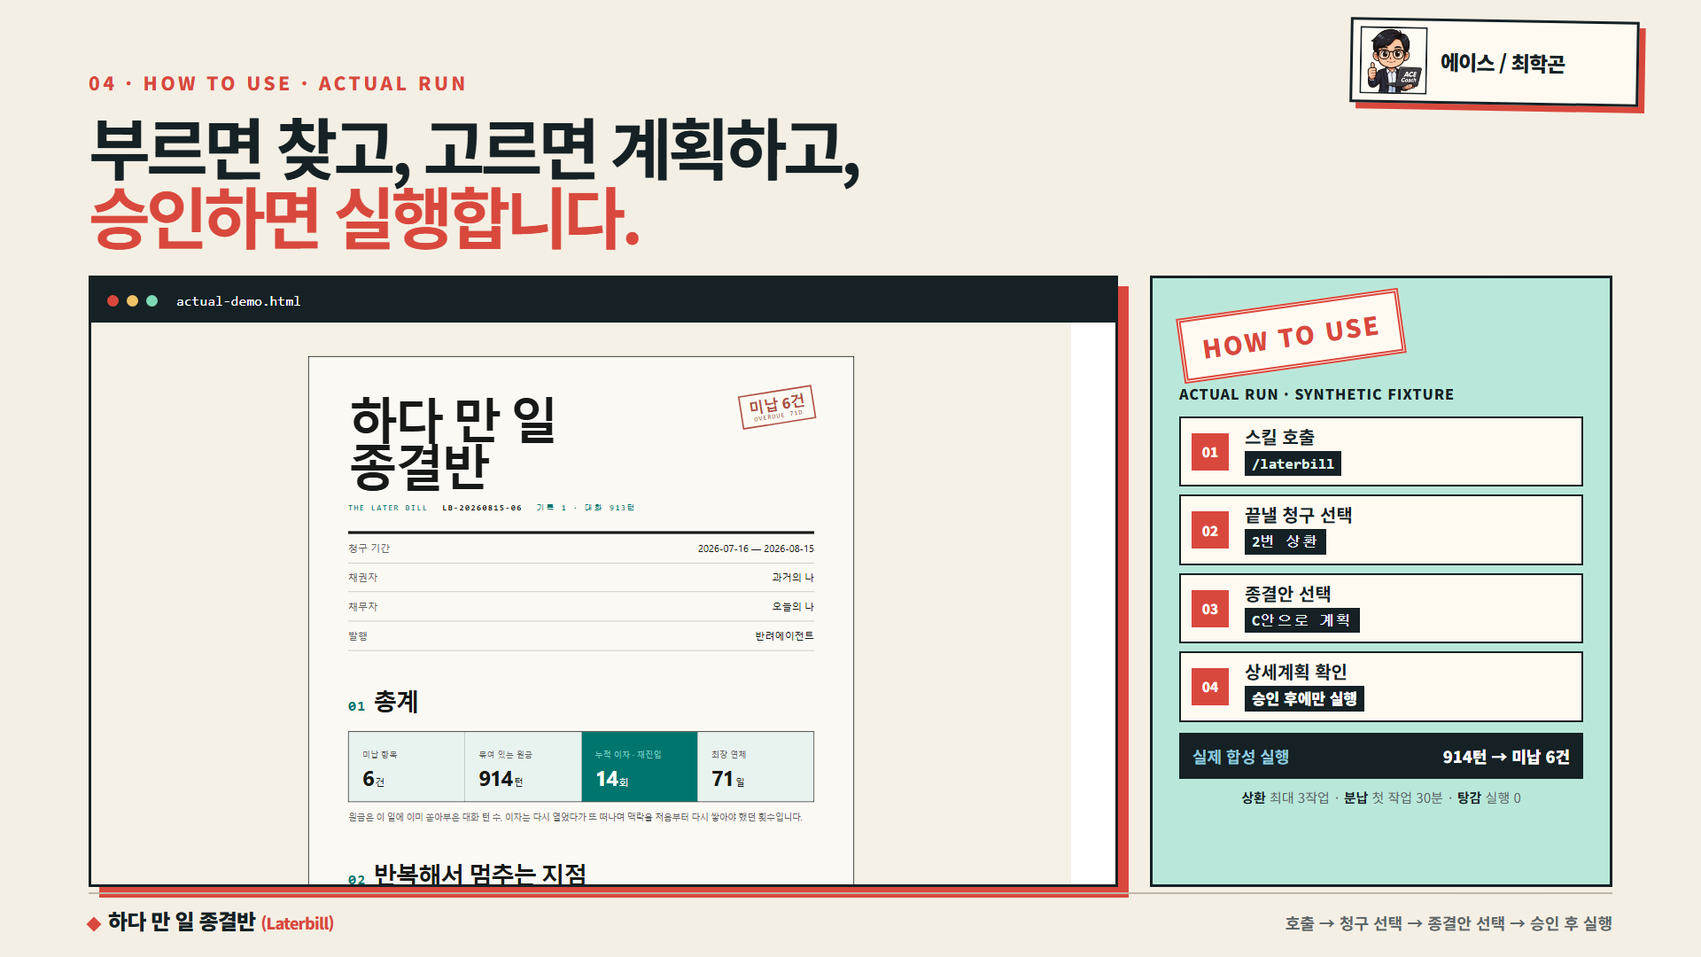
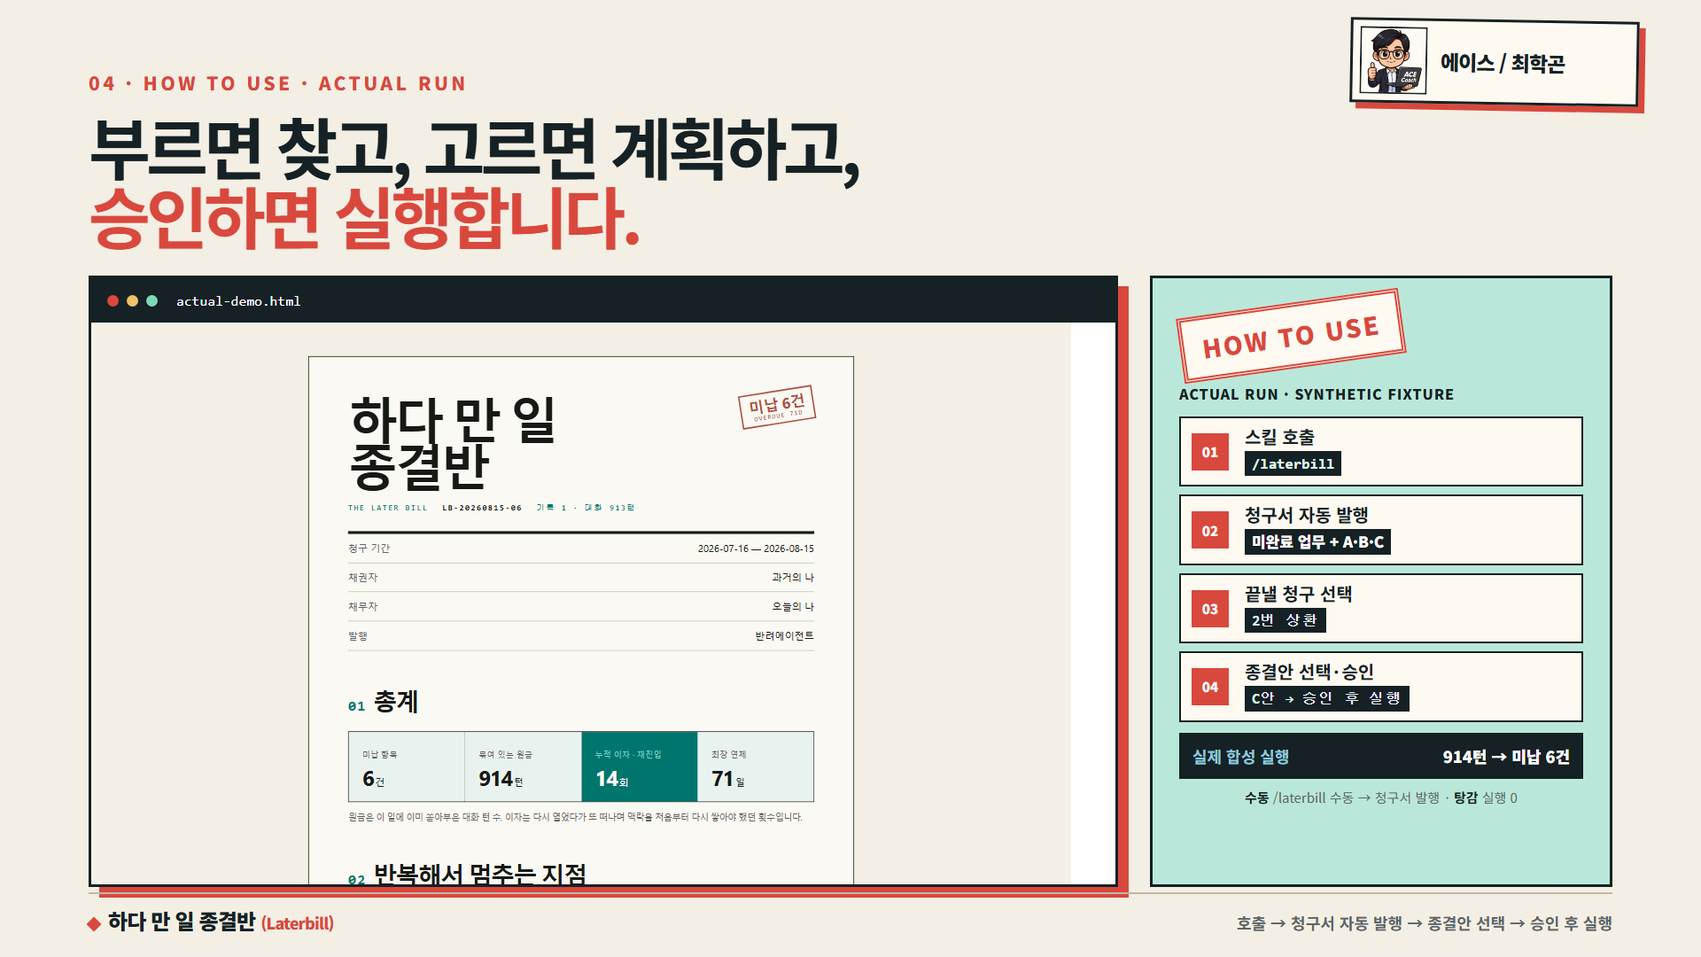
feat: add automatic and manual bill issuance

diff --git a/docs/evidence.html b/docs/evidence.html
@@ -19,7 +19,7 @@
 
   <section class="slide" data-slide="4"><div class="kicker">04 · SAFETY IS A BEHAVIOR</div><h1>민감함과 불확실함을<br>‘주의 문구’가 아니라 동작으로 막는다.</h1><div class="safety"><div class="guard"><div class="tag">NO EVIDENCE</div><b>발행 거부</b><code>verdict: insufficient_data</code><p class="small">대화가 부족하면 없는 빚과 날짜를 만들지 않습니다.</p></div><div class="guard" style="background:var(--mint)"><div class="tag">SENSITIVE · TEST PASS</div><b>승인 전 비공개</b><code>원문 marker not in MD/HTML</code><p class="small">자가검증 #27이 승인 전 원문 부재와 비공개 배너를 함께 검사합니다.</p></div><div class="guard"><div class="tag">PUBLIC SHARE · ACTUAL</div><b>원본 좌표 제거</b><code>source_refs: []</code><p class="small">실제 anonymize() 출력: project=&lt;anonymized&gt;, item_id=lb_public_a.</p></div></div><div class="source proof">READ-ONLY PROBE · README.md SHA-256<br>before == after &nbsp;<span class="pass">readonly_unchanged=true</span><br><span class="small">전체 해시는 공개 proof 로그에 기록</span></div><div class="foot"><span>경고 문구가 아니라 실제 함수 출력과 해시로 검증</span><span>신뢰성 · 개인정보 0건</span></div></section>
 
-  <section class="slide" data-slide="5"><div class="kicker">05 · REPRODUCIBLE PROOF</div><h1>현재 소스와 제출 ZIP을<br>같은 테스트로 두 번 검증했다.</h1><div class="matrix"><div class="terminal"><span class="cmd">$ python laterbill/scripts/selftest.py</span><br><span class="pass">PASS</span> 최신 Codex envelope<br><span class="pass">PASS</span> A·B·C 전략 차별성<br><span class="pass">PASS</span> 민감 원문 기본 숨김<br><span class="pass">PASS</span> 프로젝트 파일 무변경<br><span class="pass">PASS</span> 자가개선 가드레일<br><b class="result">33/33 통과</b><span class="cmd">$ unzip laterbill-skill.zip → temp</span><br><span class="cmd">$ python temp/laterbill/scripts/selftest.py</span><br><b class="result small-result">33/33 통과</b></div><div><div class="stats"><div class="stat"><span>검증 대상</span><b>2</b><span>source + fresh unzip</span></div><div class="stat"><span>테스트 실행</span><b>66</b><span>33 × 2</span></div><div class="stat"><span>압축 파일</span><b>&lt;3MB</b><span>allowlist package</span></div><div class="stat"><span>개인 기록</span><b>0</b><span>합성 fixture만 공개</span></div></div><div class="lane"><b>검증 명령</b> python tools/verify-release.py<br><b>원본 로그</b> docs/assets/proof/release-verification.txt</div><span class="pill">실제 실행 로그</span><span class="pill">SHA-256</span><span class="pill">새 압축 해제본</span><span class="pill">재현 명령 공개</span></div></div><div class="foot"><span>주장을 만드는 코드와 주장을 검증하는 로그를 함께 제출</span><span>완성도 · 신뢰성</span></div></section>
+  <section class="slide" data-slide="5"><div class="kicker">05 · REPRODUCIBLE PROOF</div><h1>현재 소스와 제출 ZIP을<br>같은 테스트로 두 번 검증했다.</h1><div class="matrix"><div class="terminal"><span class="cmd">$ python laterbill/scripts/selftest.py</span><br><span class="pass">PASS</span> 최신 Codex envelope<br><span class="pass">PASS</span> A·B·C 전략 차별성<br><span class="pass">PASS</span> 자동·수동 발행 분리<br><span class="pass">PASS</span> 민감 원문 기본 숨김<br><span class="pass">PASS</span> 프로젝트 파일 무변경<br><b class="result">34/34 통과</b><span class="cmd">$ unzip laterbill-skill.zip → temp</span><br><span class="cmd">$ python temp/laterbill/scripts/selftest.py</span><br><b class="result small-result">34/34 통과</b></div><div><div class="stats"><div class="stat"><span>검증 대상</span><b>2</b><span>source + fresh unzip</span></div><div class="stat"><span>테스트 실행</span><b>68</b><span>34 × 2</span></div><div class="stat"><span>압축 파일</span><b>&lt;3MB</b><span>allowlist package</span></div><div class="stat"><span>개인 기록</span><b>0</b><span>합성 fixture만 공개</span></div></div><div class="lane"><b>검증 명령</b> python tools/verify-release.py<br><b>원본 로그</b> docs/assets/proof/release-verification.txt</div><span class="pill">실제 실행 로그</span><span class="pill">SHA-256</span><span class="pill">새 압축 해제본</span><span class="pill">재현 명령 공개</span></div></div><div class="foot"><span>주장을 만드는 코드와 주장을 검증하는 로그를 함께 제출</span><span>완성도 · 신뢰성</span></div></section>
 
   <script>const n=new URLSearchParams(location.search).get('slide')||'1';document.querySelector(`[data-slide="${n}"]`)?.classList.add('active');</script>
 </body>

diff --git a/docs/presentation/index.html b/docs/presentation/index.html
@@ -79,15 +79,15 @@
           <p class="fixture-label">ACTUAL RUN · SYNTHETIC FIXTURE</p>
           <ol class="usage-steps">
             <li><span>01</span><div><b>스킬 호출</b><code>/laterbill</code></div></li>
-            <li><span>02</span><div><b>끝낼 청구 선택</b><code>2번 상환</code></div></li>
-            <li><span>03</span><div><b>종결안 선택</b><code>C안으로 계획</code></div></li>
-            <li><span>04</span><div><b>상세계획 확인</b><strong>승인 후에만 실행</strong></div></li>
+            <li><span>02</span><div><b>청구서 자동 발행</b><strong>미완료 업무 + A·B·C</strong></div></li>
+            <li><span>03</span><div><b>끝낼 청구 선택</b><code>2번 상환</code></div></li>
+            <li><span>04</span><div><b>종결안 선택·승인</b><code>C안 → 승인 후 실행</code></div></li>
           </ol>
           <div class="usage-result"><b>실제 합성 실행</b><span>914턴 → 미납 6건</span></div>
-          <p class="usage-modes"><b>상환</b> 최대 3작업 · <b>분납</b> 첫 작업 30분 · <b>탕감</b> 실행 0</p>
+          <p class="usage-modes"><b>수동</b> /laterbill 수동 → 청구서 발행 · <b>탕감</b> 실행 0</p>
         </aside>
       </div>
-      <div class="footer"><span class="brand-name">하다 만 일 종결반 <small>(Laterbill)</small></span><span>호출 → 청구 선택 → 종결안 선택 → 승인 후 실행</span></div>
+      <div class="footer"><span class="brand-name">하다 만 일 종결반 <small>(Laterbill)</small></span><span>호출 → 청구서 자동 발행 → 종결안 선택 → 승인 후 실행</span></div>
     </section>
 
     <section class="slide" data-slide="5" aria-label="5장 멈춘 자리로 복귀">
@@ -164,11 +164,11 @@
     <section class="slide finale" data-slide="10" aria-label="10장 검증과 데모">
       <div class="kicker">10 · REPRODUCIBLE PROOF</div>
       <div class="final-grid">
-        <div><h1>대화를 정리하는 AI가 아니라,<br><em>일을 종결하는 AI.</em></h1><p class="demo-cta">말이 아니라 33개 검증을 두 번 통과했습니다.<br><strong>지금, 하다 만 일 하나를 끝내겠습니다.</strong></p></div>
+        <div><h1>대화를 정리하는 AI가 아니라,<br><em>일을 종결하는 AI.</em></h1><p class="demo-cta">말이 아니라 34개 검증을 두 번 통과했습니다.<br><strong>지금, 하다 만 일 하나를 끝내겠습니다.</strong></p></div>
         <div class="score-ticket">
           <span class="micro">SOURCE + FRESH ZIP</span>
-          <strong>33/33 × 2</strong>
-          <dl><div><dt>테스트 실행</dt><dd>66</dd></div><div><dt>개인 기록</dt><dd>0</dd></div><div><dt>네트워크 호출</dt><dd>0</dd></div></dl>
+          <strong>34/34 × 2</strong>
+          <dl><div><dt>테스트 실행</dt><dd>68</dd></div><div><dt>개인 기록</dt><dd>0</dd></div><div><dt>네트워크 호출</dt><dd>0</dd></div></dl>
           <div class="stamp repaid">REPAID</div>
         </div>
       </div>

diff --git a/docs/index.html b/docs/index.html
@@ -28,7 +28,7 @@
     </header>
     <section><div class="eyebrow">Three repayment strategies</div><h2>한 줄 조언 대신, 비교 가능한 세 안</h2><p class="sub">같은 행동을 표현만 바꾸지 않습니다. 시간·완료 조건·장단점이 다른 세 경로 중 하나를 고르면 최대 3개 작업으로 상세화합니다.</p><div class="grid3"><article class="card"><span class="tag">A · QUICK WIN</span><h3>빠른 진전</h3><strong>30분</strong><p>중단 지점을 재현하고 지금 바로 할 행동 하나를 확인합니다.</p></article><article class="card"><span class="tag">B · UNBLOCK</span><h3>장애물 해소</h3><strong>60분</strong><p>막힌 조건·권한·입력 또는 유지할 기존 결과부터 분리합니다.</p></article><article class="card"><span class="tag">C · COMPLETION</span><h3>완결 우선</h3><strong>120분</strong><p>테스트·빌드·완료 조건을 확인하고 이번 업무를 닫습니다.</p></article></div></section>
     <section><div class="eyebrow">Return to source</div><h2>청구서에서 원본으로 돌아가기</h2><div class="flow"><div class="step"><b>01</b>로컬 기록 수집</div><div class="step"><b>02</b>중단 지점 판정</div><div class="step"><b>03</b>프로젝트·세션 복귀</div><div class="step"><b>04</b>A·B·C 비교</div><div class="step"><b>05</b>승인 후 실행·개선</div></div></section>
-    <section><div class="proof"><div class="panel"><div class="eyebrow">VERIFIED · SOURCE + FRESH ZIP</div><p class="metric">33/33 × 2</p><p>현재 Skill과 새로 압축 해제한 ZIP에서 같은 검증을 통과했습니다. <a href="assets/proof/release-verification.txt">실제 실행 로그와 SHA-256 보기</a></p></div><div class="panel light"><div class="eyebrow">SAFETY BY DEFAULT</div><h2>계획과 실행을 분리</h2><p>상환안을 만들 때는 프로젝트를 읽기만 합니다. 사용자 승인 전에는 파일 수정, 명령 실행, 배포를 하지 않으며 전후 파일 해시가 같은지 검증합니다.</p></div></div></section>
+    <section><div class="proof"><div class="panel"><div class="eyebrow">VERIFIED · SOURCE + FRESH ZIP</div><p class="metric">34/34 × 2</p><p>현재 Skill과 새로 압축 해제한 ZIP에서 같은 검증을 통과했습니다. <a href="assets/proof/release-verification.txt">실제 실행 로그와 SHA-256 보기</a></p></div><div class="panel light"><div class="eyebrow">SAFETY BY DEFAULT</div><h2>계획과 실행을 분리</h2><p>상환안을 만들 때는 프로젝트를 읽기만 합니다. 사용자 승인 전에는 파일 수정, 명령 실행, 배포를 하지 않으며 전후 파일 해시가 같은지 검증합니다.</p></div></div></section>
     <footer>표준 라이브러리만 사용 · 로컬 전용 · 제작자 에이스 · <a href="https://github.com/websarang/laterbill">github.com/websarang/laterbill</a></footer>
   </div>
 </body>

diff --git a/laterbill/scripts/run.py b/laterbill/scripts/run.py
@@ -5,6 +5,7 @@
 from __future__ import annotations
 
 import argparse
+import json
 import os
 import subprocess
 import sys
@@ -29,6 +30,37 @@ def invoke(script: str, args: list[str], stdin_text: str | None = None) -> str:
     return result.stdout
 
 
+def manual_preview(ledger_text: str) -> str:
+    """Return a privacy-safe issuance preview without rendering the bill."""
+    ledger = json.loads(ledger_text.lstrip("\ufeff"))
+    scope = ledger.get("scan_scope", {})
+    summary = ledger.get("summary", {})
+    parser_stats = scope.get("parser_stats", {})
+    sensitive = sum(
+        bool(item.get("sensitive_topics")) and not item.get("sensitive_approved", False)
+        for item in ledger.get("line_items", [])
+    )
+    runtime_lines = []
+    for runtime, stats in sorted(parser_stats.items()):
+        runtime_lines.append(
+            f"- {runtime}: 파일 {stats.get('files_read', 0)}/"
+            f"{stats.get('files_discovered', 0)}개 · 대화 {stats.get('turns_parsed', 0):,}턴"
+        )
+    runtimes = "\n".join(runtime_lines) or "- 수집된 런타임 없음"
+    return (
+        "# 하다 만 일 종결반 — 청구서 발행 대기\n\n"
+        "> 읽기 전용 수집은 완료했지만 청구서는 아직 발행하지 않았습니다.\n\n"
+        f"- 발행 가능 항목: **{summary.get('line_items', 0)}건**\n"
+        f"- 조사한 대화: **{scope.get('turns_scanned', 0):,}턴**\n"
+        f"- 민감 승인 대기: **{sensitive}건**\n"
+        f"- 외부 전송: **{scope.get('network_calls', 0)}건**\n\n"
+        "## 런타임별 수집\n\n"
+        f"{runtimes}\n\n"
+        "전체 청구서를 보려면 **`청구서 발행`**이라고 입력하세요. "
+        "취소하려면 **`발행 취소`**라고 입력하세요.\n"
+    )
+
+
 def main() -> int:
     parser = argparse.ArgumentParser(description="Run harvest → repayment → render safely.")
     parser.add_argument("--days", type=int, default=30)
@@ -38,6 +70,10 @@ def main() -> int:
     parser.add_argument("--git", action="store_true")
     parser.add_argument("--demo", action="store_true")
     parser.add_argument("--anonymize", action="store_true")
+    parser.add_argument(
+        "--manual", action="store_true",
+        help="collect records and show a privacy-safe preview; do not issue the bill",
+    )
     parser.add_argument("--format", choices=["md", "html"], default="md")
     parser.add_argument("-o", "--output", default="-")
     args = parser.parse_args()
@@ -54,6 +90,10 @@ def main() -> int:
         harvest_args.append("--anonymize")
 
     ledger = invoke("harvest.py", harvest_args)
+    if args.manual:
+        sys.stdout.write(manual_preview(ledger))
+        return 0
+
     planned = invoke("repayment.py", [], ledger)
     render_args = ["--format", args.format]
     if args.output != "-":

diff --git a/laterbill/scripts/selftest.py b/laterbill/scripts/selftest.py
@@ -436,6 +436,20 @@ check(
     and not approved_items[1]["repayment_options"],
 )
 
+# 34 — 기본 호출은 자동 발행하고 수동 모드는 안전한 요약에서 멈춘다.
+manual_wrapper = run(["scripts/run.py", "--demo", "--manual", "--max-items", "6"])
+check(
+    "자동 발행과 수동 발행 대기가 명확히 분리된다",
+    "청구 내역" in wrapper.stdout
+    and manual_wrapper.returncode == 0
+    and "청구서 발행 대기" in manual_wrapper.stdout
+    and "청구서는 아직 발행하지 않았습니다" in manual_wrapper.stdout
+    and "청구 내역" not in manual_wrapper.stdout
+    and "마지막으로 남긴 말" not in manual_wrapper.stdout
+    and "todo-app" not in manual_wrapper.stdout,
+    manual_wrapper.stderr.strip()[:120],
+)
+
 # ---------------------------------------------------------------------------
 failed = [entry for entry in results if not entry[1]]
 for name, ok, detail in results:

diff --git a/tools/verify-presentation.py b/tools/verify-presentation.py
@@ -35,8 +35,8 @@ assert "class=\"ace-full\"" in html
 assert "Coach</small>" not in html and ">ACE</b>" not in html
 assert all(key in html for key in ("HOW TO USE · ACTUAL RUN", "ACTUAL RUN · ITEM 02", "SYNTHETIC FIXTURE", "actual-demo.html"))
 assert "SYNTHETIC FIXTURE" in html
-assert all(key in html for key in ("/laterbill", "2번 상환", "C안으로 계획", "승인 후에만 실행"))
-assert all(key in html for key in ("상환</b> 최대 3작업", "분납</b> 첫 작업 30분", "탕감</b> 실행 0"))
+assert all(key in html for key in ("/laterbill", "청구서 자동 발행", "2번 상환", "C안 → 승인 후 실행"))
+assert all(key in html for key in ("/laterbill 수동", "청구서 발행", "탕감</b> 실행 0"))
 assert "914턴 → 미납 6건" in html
 
 private_patterns = [r"C:\\Users\\", r"/Users/", r"\.codex[/\\]sessions", r"session_meta"]

diff --git a/laterbill/SKILL.md b/laterbill/SKILL.md
@@ -1,6 +1,6 @@
 ---
 name: laterbill
-description: 「하다 만 일 종결반 (Laterbill)」 — 로컬 AI 대화에 남은 미완료 업무를 추적하고, 세 가지 실행 가능한 종결안을 제시하는 상환 에이전트다. Claude Code·Codex의 프로젝트와 마지막 대화로 돌아가는 좌표를 보존하며 빠른 진전·장애물 해소·완결 우선의 종결안 3개를 제시한다. 선택안의 실행계획과 자가개선 가드레일도 만든다. 사용자가 "하다 만 일 종결반", "내가 미룬 일", "뭐 하다 말았지", "중단된 프로젝트", "unfinished projects", "what did I abandon"처럼 미완료 업무를 점검하거나 /laterbill을 호출할 때 사용한다. 읽기 전용·로컬 전용이며 민감 원문은 승인 전에 숨긴다.
+description: 「하다 만 일 종결반 (Laterbill)」 — 로컬 AI 대화에 남은 미완료 업무를 추적하고, 세 가지 실행 가능한 종결안을 제시하는 상환 에이전트다. `/laterbill` 호출 시 청구서를 자동 발행하고, `/laterbill 수동` 호출 시 수집 요약을 먼저 보여준 뒤 사용자의 `청구서 발행` 확인을 기다린다. Claude Code·Codex의 프로젝트와 마지막 대화로 돌아가는 좌표를 보존하며 빠른 진전·장애물 해소·완결 우선의 종결안 3개와 자가개선 가드레일을 만든다. 사용자가 "하다 만 일 종결반", "내가 미룬 일", "뭐 하다 말았지", "중단된 프로젝트", "unfinished projects", "what did I abandon"처럼 미완료 업무를 점검할 때도 사용한다. 읽기 전용·로컬 전용이며 민감 원문은 승인 전에 숨긴다.
 ---
 
 # 하다 만 일 종결반 (Laterbill)
@@ -24,10 +24,27 @@ description: 「하다 만 일 종결반 (Laterbill)」 — 로컬 AI 대화에 
 
 ## 빠른 시작
 
+### 호출과 발행 모드
+
+- `/laterbill` 또는 별도 모드가 없는 자연어 호출: 즉시 `scripts/run.py --max-items 10`을
+  실행하고 같은 응답에서 청구서를 자동 발행하라. 추가 확인을 요구하지 마라.
+- `/laterbill 수동`: `scripts/run.py --manual --max-items 10`을 실행해 수집 건수와
+  런타임별 통계만 보여주고 멈춰라. 프로젝트명·경로·세션·원문·상환안은 아직 출력하지 마라.
+- 수동 모드 뒤 사용자가 `청구서 발행`이라고 하면 일반 실행기로 전체 청구서를 발행하라.
+  `발행 취소`라고 하면 아무것도 발행하지 말고 종료하라.
+- 자동·수동은 발행 시점만 다르다. 두 모드 모두 수집은 읽기 전용이고 민감 원문 승인
+  경계를 유지한다.
+
+```text
+/laterbill          # 자동: 수집 → 심사 → 청구서 즉시 발행
+/laterbill 수동     # 수동: 안전한 수집 요약 → 사용자 확인 → 청구서 발행
+```
+
 PowerShell의 네이티브 파이프 인코딩 손실을 피하려면 통합 실행기를 사용하라.
 
 ```bash
 python scripts/run.py --demo
+python scripts/run.py --demo --manual
 python scripts/run.py --max-items 10
 python scripts/run.py --format html -o bill.html
 ```

diff --git a/JUDGE_START_HERE.md b/JUDGE_START_HERE.md
@@ -18,7 +18,7 @@ python laterbill/scripts/selftest.py
 python tools/verify-release.py
 ```
 
-33/33 PASS가 정상입니다. 최신 Codex `session_meta → turn_context → response_item` 파싱,
+34/34 PASS가 정상입니다. 최신 Codex `session_meta → turn_context → response_item` 파싱,
 Claude 형식, 프로젝트·세션 복귀 좌표, 세 가지 안의 차별성, 분납·탕감, 민감 원문 기본 숨김,
 자가개선 가드레일과 프로젝트 무변경을 실제 코드로 검사합니다.
 두 번째 명령은 새 제출 ZIP을 임시 폴더에 풀고 동일 테스트를 다시 실행합니다.
@@ -30,9 +30,9 @@ Claude 형식, 프로젝트·세션 복귀 좌표, 세 가지 안의 차별성, 
 |---|---|
 | 제출 ZIP | `laterbill-skill.zip` |
 | 파일·크기 | 13 files · 67,311 bytes |
[1 lines of base64/hex data omitted]
-| 현재 소스 | 33/33 통과 |
-| 새 압축 해제본 | 33/33 통과 |
[1 lines of base64/hex data omitted]
+| 현재 소스 | 34/34 통과 |
+| 새 압축 해제본 | 34/34 통과 |
 | 공개 입력 | 합성 fixture, 개인 기록 0건 |
 | 복귀 출력 | Codex·Claude 합성 세션 명령 생성 확인 |
 | 공유 출력 | `source_refs=[]`, `project=<anonymized>` |
@@ -58,7 +58,7 @@ python laterbill/scripts/run.py --sessions-root ./laterbill/fixtures/empty
 | 유용함 | 사용자가 TODO를 미리 적을 필요가 없습니다. 프로젝트 폴더·마지막 세션·첫 행동으로 바로 돌아갑니다. |
 | 완성도 | 수집 → 심사 → A·B·C 상환안 → 선택안 상세계획 → 실행 승인 → 결과 기록 → 자가개선 루프가 하나의 흐름입니다. |
 | 재사용성 | Claude Code와 최신 Codex JSONL, Windows/POSIX 경로, 사용자 지정 `--sessions-root`를 지원하며 표준 라이브러리만 사용합니다. |
-| 신뢰성 | 읽기 전용·로컬 전용, 근거 부족 시 발행 거부, 민감 원문 승인 전 숨김, 익명화, 동기 진단 금지를 33개 테스트로 고정했습니다. |
+| 신뢰성 | 자동·수동 발행 분리, 읽기 전용·로컬 전용, 근거 부족 시 발행 거부, 민감 원문 승인 전 숨김, 익명화, 동기 진단 금지를 34개 테스트로 고정했습니다. |
 
 ## 설계에서 일부러 하지 않은 것
 

diff --git a/README.md b/README.md
@@ -24,10 +24,15 @@ python laterbill/scripts/run.py --demo
 python laterbill/scripts/selftest.py
 ```
 
+채팅에서는 `/laterbill`을 입력하면 수집부터 청구서 발행까지 자동으로 진행됩니다.
+먼저 수집 범위만 확인하려면 `/laterbill 수동`을 입력하고, 요약을 확인한 뒤
+`청구서 발행` 또는 `발행 취소`를 선택합니다.
+
 실제 로컬 기록으로 실행하려면 `--demo`만 빼면 됩니다.
 
 ```bash
 python laterbill/scripts/run.py --max-items 10
+python laterbill/scripts/run.py --manual --max-items 10
 python laterbill/scripts/run.py --format html -o bill.html
 ```
 
@@ -93,9 +98,9 @@ python laterbill/scripts/install.py --install --runtime claude-code --scope proj
 
 `python laterbill/scripts/selftest.py`는 최신 Codex envelope와 Claude 형식, 런타임별 파싱 통계,
 source_refs, 익명화, 상환안 차별성, 선택안 상세화, 분납, 탕감, 민감정보 승인, 자가개선 루프,
-한글 파이프라인, HTML 주입 차단과 네트워크 부재를 포함한 **33개 검증**을 실행합니다.
+한글 파이프라인, 자동·수동 발행 분리, HTML 주입 차단과 네트워크 부재를 포함한 **34개 검증**을 실행합니다.
 `python tools/verify-release.py`는 Skill ZIP을 새로 만들고 임시 폴더에 압축 해제한 뒤 동일 검증을
-다시 수행합니다. [실제 검증 로그](docs/assets/proof/release-verification.txt)에는 양쪽 `33/33`,
+다시 수행합니다. [실제 검증 로그](docs/assets/proof/release-verification.txt)에는 양쪽 `34/34`,
 ZIP SHA-256, 합성 재개 명령, 익명화 결과와 읽기 전용 전후 해시가 기록되어 있습니다.
 
 - [1분 심사 경로](JUDGE_START_HERE.md)
